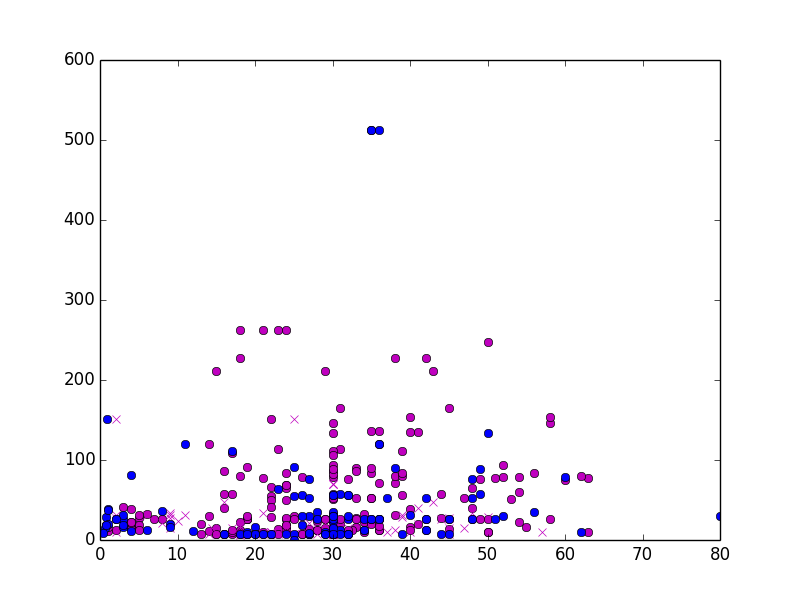
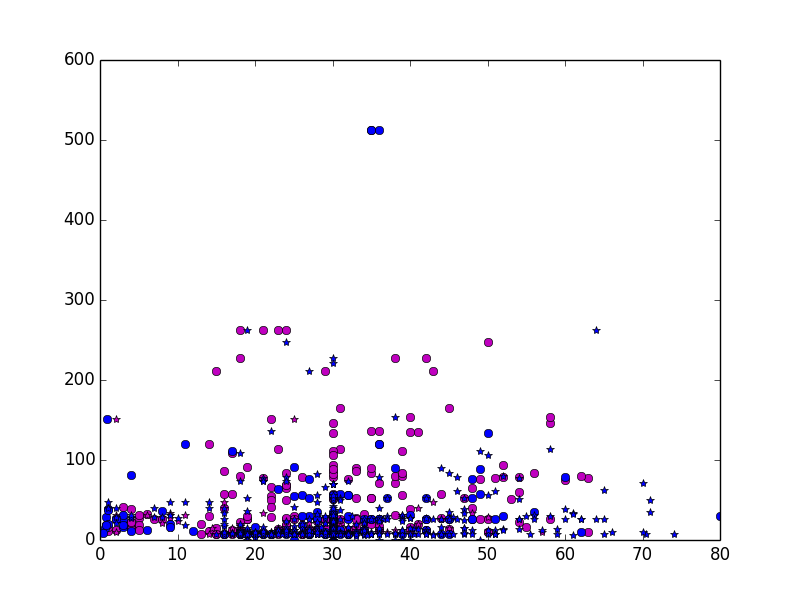
added dead men to plot

diff --git a/titanic.py b/titanic.py
@@ -79,10 +79,16 @@ men_sur_age[men_sur_age==''] = '30'
 men_sur_age = men_sur_age.astype(np.float)
 men_sur_fare = data[men_sur_stats,9].astype(np.float)
 
+men_die_age = data[men_die_stats,5] #.astype(np.float)
+men_die_age[men_die_age==''] = '30'
+men_die_age = men_die_age.astype(np.float)
+men_die_fare = data[men_die_stats,9].astype(np.float)
+
 plt.plot (wom_sur_age, wom_sur_fare, 'mo')
-plt.plot (wom_die_age, wom_die_fare, 'mx')
+plt.plot (wom_die_age, wom_die_fare, 'm*')
 
 plt.plot (men_sur_age, men_sur_fare, 'bo')
+plt.plot (men_die_age, men_die_fare, 'b*')
 plt.savefig('myfigure')
 
 
